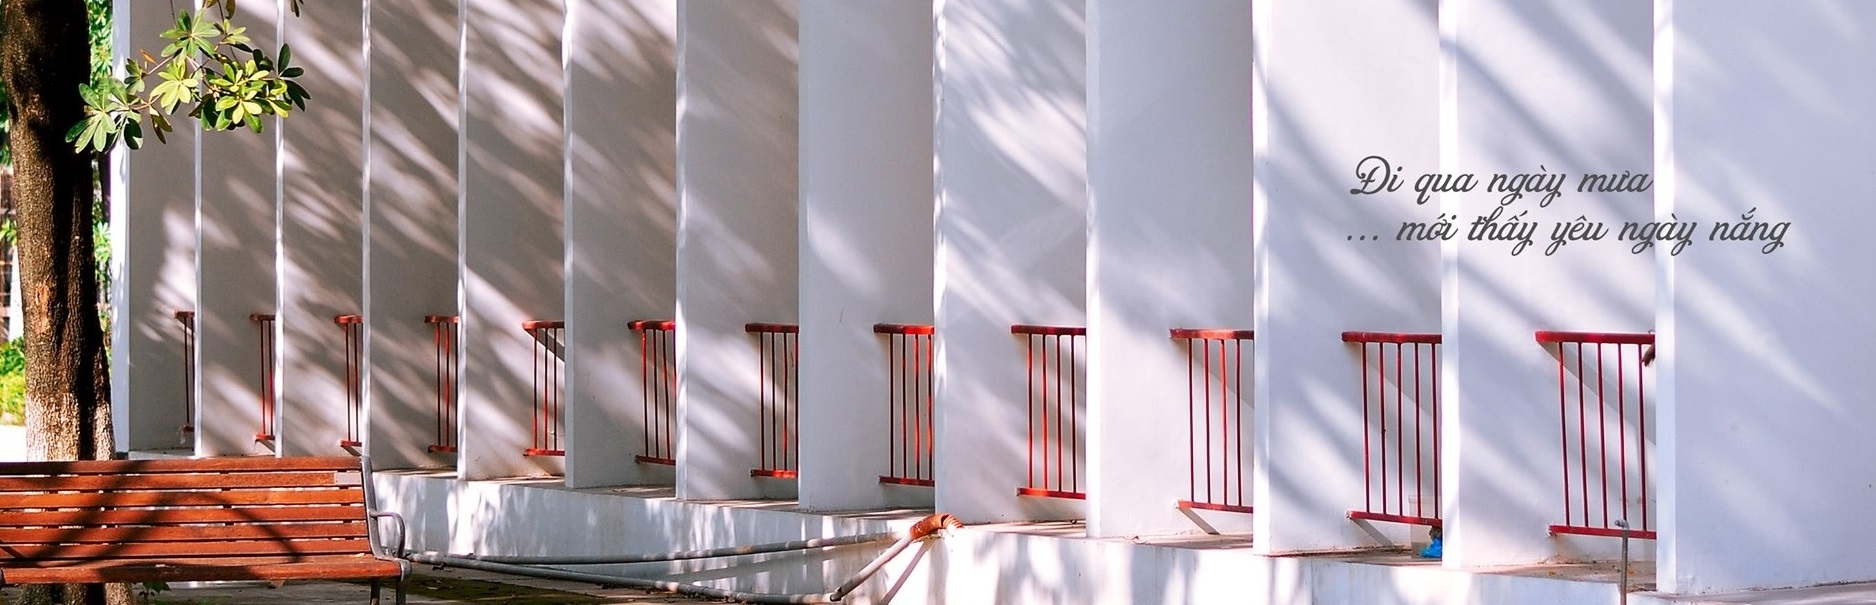
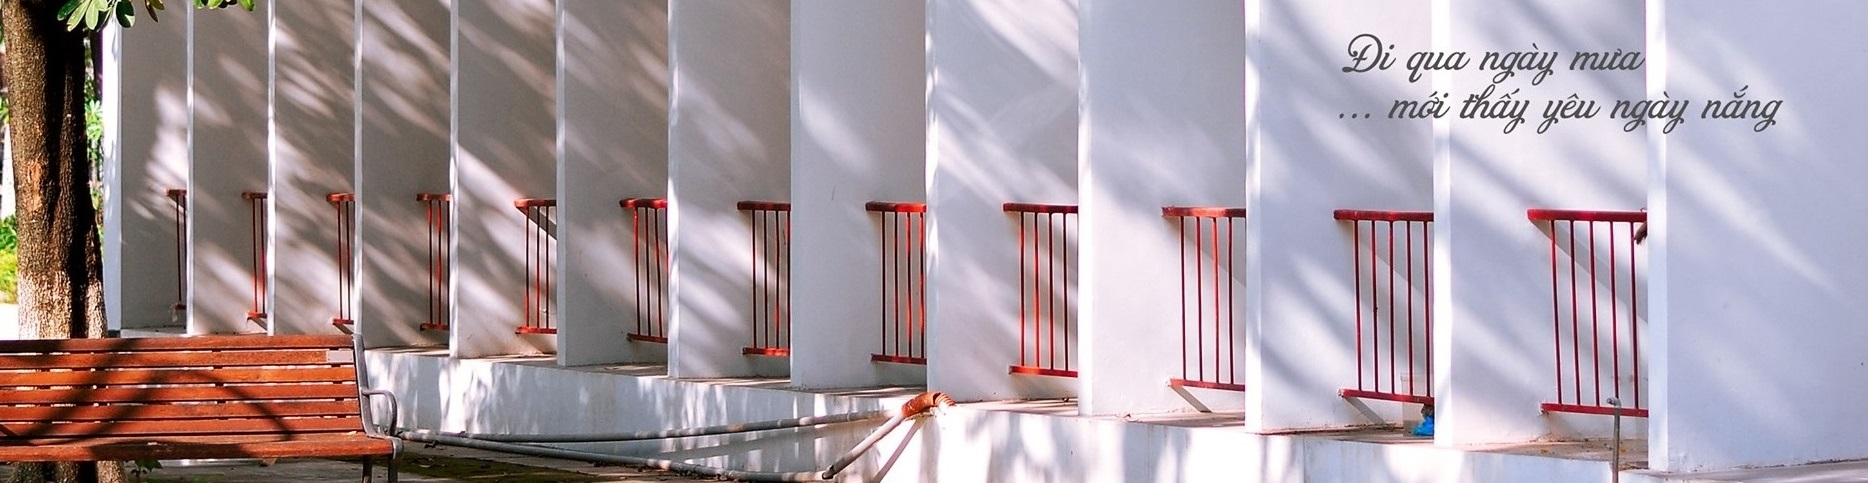
thanh

diff --git a/resources/views/frontend/bomon/huongnghiencuu.blade.php b/resources/views/frontend/bomon/huongnghiencuu.blade.php
@@ -20,18 +20,18 @@
 
 </head>
 
-<body>
+<body class="body">
     @include('frontend.header')
-    <!-- Page Content -->
-    <div class="container">
-        <div id="carouselExampleIndicators" class="carousel slide" data-ride="carousel">
-            <div class="carousel-inner">
-                <div class="carousel-item active">
-                    <img style="width:auto; height:auto;" src="{{asset('index/assets/img/dai-hoc-bach-khoa.jpg')}}"
-                        class="d-block w-1" alt="...">
-                </div>
+    <div id="carouselExampleIndicators" class="carousel slide" data-ride="carousel">
+        <div class="carousel-inner">
+            <div class="carousel-item active">
+                <img style="width:1500px; height:auto;" src="{{asset('index/assets/img/caybang1.jpg')}}" class="cangiua"
+                    alt="...">
             </div>
         </div>
+    </div><br><br><br>
+    <!-- Page Content -->
+    <div class="container">
         <div class="row">
             <!-- Post Content Column -->
             <div class="col-lg-8">
@@ -40,10 +40,11 @@
                 <small>{{ $huongnghiencuu->tenbomon }}</small>
                 <hr>
                 <div style="font-size: 13px;">
-                <p style="text-align: right;">
-                {!! $huongnghiencuu->huongnghiencuu !!}<br><br><br><br><br><br><br><br>
-                </p>
-            </div></div>
+                    <p style="text-align: right;">
+                        {!! $huongnghiencuu->huongnghiencuu !!}<br><br><br><br><br><br><br><br>
+                    </p>
+                </div>
+            </div>
             @include('frontend.bomon.slidebarbomon')
         </div>
         <!-- /.row -->

diff --git a/resources/views/frontend/sinhvien/slidebarsinhvien.blade.php b/resources/views/frontend/sinhvien/slidebarsinhvien.blade.php
@@ -1,0 +1,27 @@
+<div class="col-md-1">
+</div>
+<!-- Sidebar -->
+<div class="col-md-3">
+    <!-- Danh mục -->
+    <div class="card my-3" style="font-size: 13px;">
+        <div class="card" style="width: 20rem;">
+            <div class="card-header">
+                <b>SINH VIÊN</b>
+            </div>
+            <ul class="list-group list-group-flush" style=" background: #efefef; border-top: 3px groove #003366;"><br>
+                <div class="dropdown" style="font-size: 13px;">
+                    <a class="nav-link " style="color: #000; font-size:15px" href="{{asset('ban-chap-hanh')}}">Ban chấp hành LCĐ - LCH</a>
+                    <hr style=" groove #919191; border-top: 1px groove #003366;">
+                </div>
+                <div class="dropdown" style="font-size: 13px;">
+                    <a class="nav-link " style="color: #000; font-size:15px" href="{{asset('lich-su-hinh-thanh')}}">Các câu lạc bộ</a>
+                    <hr style=" groove #919191; border-top: 1px groove #003366;">
+                </div>
+                <div class="dropdown" style="font-size: 13px;">
+                    <a class="nav-link " style="color: #000; font-size:15px" href="{{asset('co-cau-to-chuc')}}">Thực tập sinh</a>
+                    <hr style=" groove #919191; border-top: 1px groove #003366;">
+                </div>
+            </ul>
+        </div>
+    </div>
+</div>

diff --git a/resources/views/frontend/sinhvien/banchaphanh.blade.php b/resources/views/frontend/sinhvien/banchaphanh.blade.php
@@ -20,18 +20,18 @@
 
 </head>
 
-<body>
+<body class="body">
     @include('frontend.header')
-    <!-- Page Content -->
-    <div class="container">
-        <div id="carouselExampleIndicators" class="carousel slide" data-ride="carousel">
-            <div class="carousel-inner">
-                <div class="carousel-item active">
-                    <img style="width:auto; height:auto;" src="{{asset('index/assets/img/dai-hoc-bach-khoa.jpg')}}"
-                        class="d-block w-1" alt="...">
-                </div>
+    <div id="carouselExampleIndicators" class="carousel slide" data-ride="carousel">
+        <div class="carousel-inner">
+            <div class="carousel-item active">
+                <img style="width:1500px; height:auto;" src="{{asset('index/assets/img/caybang.jpg')}}"
+                     class="cangiua" alt="...">
             </div>
         </div>
+    </div><br><br><br>
+    <!-- Page Content -->
+    <div class="container">
         <div class="row">
             <!-- Post Content Column -->
             <div class="col-lg-8">
@@ -69,7 +69,7 @@
                     </p><br><br><br><br><br><br><br><br><br><br><br><br>
                 </div>
             </div>
-
+            @include('frontend.sinhvien.slidebarsinhvien')
         </div>
         <!-- /.row -->
     </div>

diff --git a/resources/views/frontend/giangvien/slidebargiangvien.blade.php b/resources/views/frontend/giangvien/slidebargiangvien.blade.php
@@ -8,9 +8,9 @@
             </div>
             <ul class="list-group list-group-flush" style=" background: #efefef; border-top: 3px groove #003366;"><br>
                 <div class="dropdown" style="font-size: 13px;">
-                    <a style="color: #000; font-size: 15px;" href="{{asset('bo-mon-trung-tam')}}">Giới thiệu</a>
+                    <a class="nav-link " style="color: #000; font-size: 15px;" href="{{asset('bo-mon-trung-tam')}}">Giới thiệu</a>
+                    <hr style=" groove #919191; border-top: 1px groove #003366;">
                 </div>
-                <hr style=" groove #919191; border-top: 1px groove #003366;">
                 @foreach($bmon as $ct)
                 <div class="dropdown">
                     <a style="color: #000" class="nav-link dropdown-toggle" href="#" id="navbarDropdownMenuLink"
@@ -41,6 +41,7 @@
                             href="{{asset('sach-da-xuat-ban')}}/{{$ct->id}}">Sách đã
                             xuất bản</a> -->
                     </div>
+                    <hr style=" groove #919191; border-top: 1px groove #003366;">
                 </div>
                 @endforeach
             </ul>

diff --git a/resources/views/frontend/daotaosaudh/daotaotiensy.blade.php b/resources/views/frontend/daotaosaudh/daotaotiensy.blade.php
@@ -19,18 +19,18 @@
 <link href="{{asset('trangphu/css/anh.css')}}" rel="stylesheet">
 </head>
 
-<body>
+<body class="body">
     @include('frontend.header')
-    <!-- Page Content -->
-    <div class="container">
-        <div id="carouselExampleIndicators" class="carousel slide" data-ride="carousel">
-            <div class="carousel-inner">
-                <div class="carousel-item active">
-                    <img style="width:auto; height:auto;" src="{{asset('index/assets/img/dai-hoc-bach-khoa.jpg')}}"
-                        class="d-block w-1" alt="...">
-                </div>
+    <div id="carouselExampleIndicators" class="carousel slide" data-ride="carousel">
+        <div class="carousel-inner">
+            <div class="carousel-item active">
+                <img style="width:1500px; height:auto;" src="{{asset('index/assets/img/caybang2.jpg')}}"
+                     class="cangiua" alt="...">
             </div>
         </div>
+    </div><br><br><br>
+    <!-- Page Content -->
+    <div class="container">
         <div class="row">
             <!-- Post Content Column -->
             <div class="col-lg-8">

diff --git a/resources/views/frontend/bomon/gioithieuchung4.blade.php b/resources/views/frontend/bomon/gioithieuchung4.blade.php
@@ -20,18 +20,18 @@
 
 </head>
 
-<body>
+<body class="body">
     @include('frontend.header')
-    <!-- Page Content -->
-    <div class="container">
-        <div id="carouselExampleIndicators" class="carousel slide" data-ride="carousel">
-            <div class="carousel-inner">
-                <div class="carousel-item active">
-                    <img style="width:auto; height:auto;" src="{{asset('index/assets/img/dai-hoc-bach-khoa.jpg')}}"
-                        class="d-block w-1" alt="...">
-                </div>
+    <div id="carouselExampleIndicators" class="carousel slide" data-ride="carousel">
+        <div class="carousel-inner">
+            <div class="carousel-item active">
+                <img style="width:1500px; height:auto;" src="{{asset('index/assets/img/caybang1.jpg')}}"
+                     class="cangiua" alt="...">
             </div>
         </div>
+    </div><br><br><br>
+    <!-- Page Content -->
+    <div class="container">
         <div class="row">
             <!-- Post Content Column -->
             <div class="col-lg-8">

diff --git a/resources/views/frontend/chuongtrinhdaotao/chuandaura.blade.php b/resources/views/frontend/chuongtrinhdaotao/chuandaura.blade.php
@@ -21,18 +21,18 @@
 
 </head>
 
-<body>
+<body class="body">
     @include('frontend.header')
-    <!-- Page Content -->
-    <div class="container">
-        <div id="carouselExampleIndicators" class="carousel slide" data-ride="carousel">
-            <div class="carousel-inner">
-                <div class="carousel-item active">
-                    <img style="width:auto; height:auto;" src="{{asset('index/assets/img/dai-hoc-bach-khoa.jpg')}}"
-                        class="d-block w-1" alt="...">
-                </div>
+    <div id="carouselExampleIndicators" class="carousel slide" data-ride="carousel">
+        <div class="carousel-inner">
+            <div class="carousel-item active">
+                <img style="width:1500px; height:auto;" src="{{asset('index/assets/img/caybang2.jpg')}}"
+                     class="cangiua" alt="...">
             </div>
         </div>
+    </div><br><br><br>
+    <!-- Page Content -->
+    <div class="container">
         <div class="row">
             <!-- Post Content Column -->
             <div class="col-lg-8">

diff --git a/resources/views/frontend/daotaosaudh/daotaothacsy.blade.php b/resources/views/frontend/daotaosaudh/daotaothacsy.blade.php
@@ -20,18 +20,18 @@
 
 </head>
 
-<body>
+<body class="body">
     @include('frontend.header')
-    <!-- Page Content -->
-    <div class="container">
-        <div id="carouselExampleIndicators" class="carousel slide" data-ride="carousel">
-            <div class="carousel-inner">
-                <div class="carousel-item active">
-                    <img style="width:auto; height:auto;" src="{{asset('index/assets/img/dai-hoc-bach-khoa.jpg')}}"
-                        class="d-block w-1" alt="...">
-                </div>
+    <div id="carouselExampleIndicators" class="carousel slide" data-ride="carousel">
+        <div class="carousel-inner">
+            <div class="carousel-item active">
+                <img style="width:1500px; height:auto;" src="{{asset('index/assets/img/caybang2.jpg')}}"
+                     class="cangiua" alt="...">
             </div>
         </div>
+    </div><br><br><br>
+    <!-- Page Content -->
+    <div class="container">
         <div class="row">
             <!-- Post Content Column -->
             <div class="col-lg-8">

diff --git a/resources/views/frontend/giangvien/chitietgiangvien.blade.php b/resources/views/frontend/giangvien/chitietgiangvien.blade.php
@@ -18,18 +18,18 @@
 
 </head>
 
-<body>
+<body class="body">
     @include('frontend.header')
-    <!-- Page Content -->
-    <div class="container">
-        <div id="carouselExampleIndicators" class="carousel slide" data-ride="carousel">
-            <div class="carousel-inner">
-                <div class="carousel-item active">
-                    <img style="width:auto; height:auto;" src="{{asset('index/assets/img/dai-hoc-bach-khoa.jpg')}}"
-                        class="d-block w-1" alt="...">
-                </div>
+    <div id="carouselExampleIndicators" class="carousel slide" data-ride="carousel">
+        <div class="carousel-inner">
+            <div class="carousel-item active">
+                <img style="width:1500px; height:auto;" src="{{asset('index/assets/img/caybang1.jpg')}}"
+                     class="cangiua" alt="...">
             </div>
         </div>
+    </div><br><br><br>
+    <!-- Page Content -->
+    <div class="container">
         <div class="row">
             <!-- Post Content Column -->
             <div class="col-lg-8">

diff --git a/resources/views/frontend/giangvien/giangvien.blade.php b/resources/views/frontend/giangvien/giangvien.blade.php
@@ -18,18 +18,18 @@
 
 </head>
 
-<body>
+<body class="body">
     @include('frontend.header')
-    <!-- Page Content -->
-    <div class="container">
-        <div id="carouselExampleIndicators" class="carousel slide" data-ride="carousel">
-            <div class="carousel-inner">
-                <div class="carousel-item active">
-                    <img style="width:auto; height:auto;" src="{{asset('index/assets/img/dai-hoc-bach-khoa.jpg')}}"
-                        class="d-block w-1" alt="...">
-                </div>
+    <div id="carouselExampleIndicators" class="carousel slide" data-ride="carousel">
+        <div class="carousel-inner">
+            <div class="carousel-item active">
+                <img style="width:1500px; height:auto;" src="{{asset('index/assets/img/caybang1.jpg')}}"
+                     class="cangiua" alt="...">
             </div>
         </div>
+    </div><br><br><br>
+    <!-- Page Content -->
+    <div class="container">
         <div class="row">
             <!-- Post Content Column -->
             <div class="col-lg-8">

diff --git a/resources/views/frontend/gioithieu/cocau.blade.php b/resources/views/frontend/gioithieu/cocau.blade.php
@@ -20,18 +20,18 @@
 
 </head>
 
-<body>
+<body class="body">
     @include('frontend.header')
-    <!-- Page Content -->
-    <div class="container">
-        <div id="carouselExampleIndicators" class="carousel slide" data-ride="carousel">
-            <div class="carousel-inner">
-                <div class="carousel-item active">
-                    <img style="width:auto; height:auto;" src="{{asset('index/assets/img/dai-hoc-bach-khoa.jpg')}}"
-                        class="d-block w-1" alt="...">
-                </div>
+    <div id="carouselExampleIndicators" class="carousel slide" data-ride="carousel">
+        <div class="carousel-inner">
+            <div class="carousel-item active">
+                <img style="width:1500px; height:auto;" src="{{asset('index/assets/img/caybang2.jpg')}}"
+                     class="cangiua" alt="...">
             </div>
         </div>
+    </div><br><br><br>
+    <!-- Page Content -->
+    <div class="container">
         <div class="row">
             <!-- Post Content Column -->
             <div class="col-lg-8">

diff --git a/resources/views/frontend/gioithieu/lichsuhinhthanh.blade.php b/resources/views/frontend/gioithieu/lichsuhinhthanh.blade.php
@@ -20,18 +20,18 @@
 
 </head>
 
-<body>
+<body class="body">
     @include('frontend.header')
-    <!-- Page Content -->
-    <div class="container">
-        <div id="carouselExampleIndicators" class="carousel slide" data-ride="carousel">
-            <div class="carousel-inner">
-                <div class="carousel-item active">
-                    <img style="width:auto; height:auto;" src="{{asset('index/assets/img/dai-hoc-bach-khoa.jpg')}}"
-                        class="d-block w-1" alt="...">
-                </div>
+    <div id="carouselExampleIndicators" class="carousel slide" data-ride="carousel">
+        <div class="carousel-inner">
+            <div class="carousel-item active">
+                <img style="width:1500px; height:auto;" src="{{asset('index/assets/img/caybang2.jpg')}}"
+                     class="cangiua" alt="...">
             </div>
         </div>
+    </div><br><br><br>
+    <!-- Page Content -->
+    <div class="container">
         <div class="row">
             <!-- Post Content Column -->
             <div class="col-lg-8">
